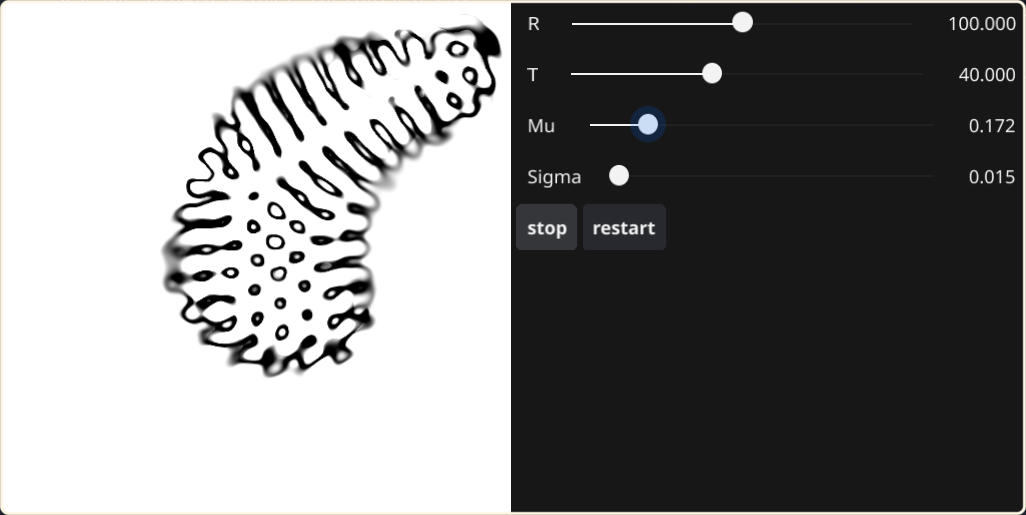
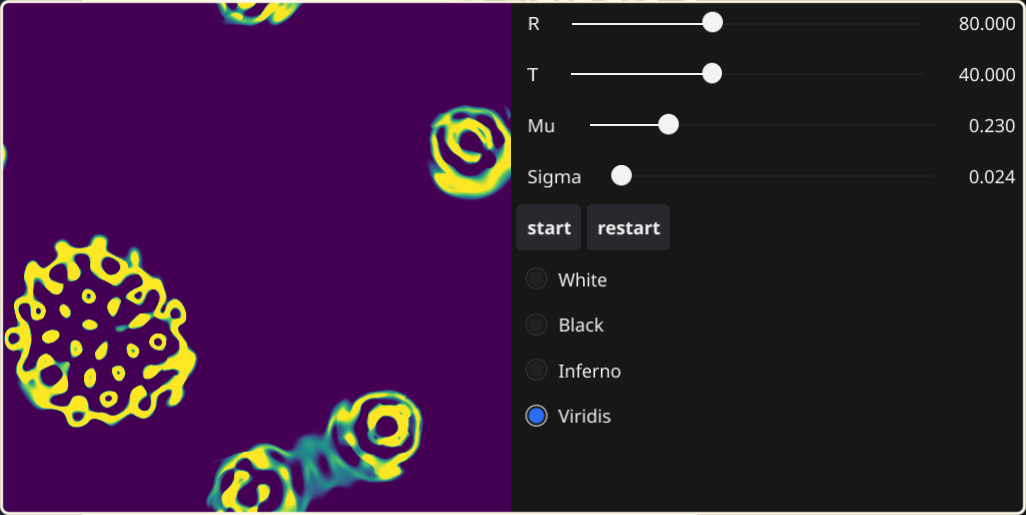
support color change

diff --git a/utils/parameters.go b/utils/parameters.go
@@ -2,10 +2,13 @@ package utils
 
 import (
 	"fmt"
+	"image/color"
+	"math"
 	"strconv"
 	"strings"
 
 	"fyne.io/fyne/v2"
+	"fyne.io/fyne/v2/canvas"
 	"fyne.io/fyne/v2/container"
 	"fyne.io/fyne/v2/data/binding"
 	"fyne.io/fyne/v2/widget"
@@ -105,4 +108,76 @@ func FlagToBeta(s string) []float64 {
 		}
 	}
 	return beta
+}
+
+// colormap choice
+
+type ColormapButton struct {
+	colors  *[][]int
+	Buttons *widget.RadioGroup
+}
+
+type ManageColormapButton interface {
+	initColormaps()
+	GetColor()
+}
+
+func (c *ColormapButton) initColormaps(raster *canvas.Raster) {
+	c.Buttons.OnChanged = func(value string) {
+		switch value {
+		case "White":
+			*c.colors = [][]int{{255, 255, 255}, {0, 0, 0}}
+		case "Black":
+			*c.colors = [][]int{{0, 0, 0}, {255, 255, 255}}
+		case "Inferno":
+			*c.colors = [][]int{
+				{0, 0, 4},
+				{87, 16, 110},
+				{188, 55, 84},
+				{249, 142, 9},
+				{252, 255, 164},
+			}
+		case "Viridis":
+			*c.colors = [][]int{
+				{68, 1, 84},
+				{59, 82, 139},
+				{33, 145, 140},
+				{94, 201, 98},
+				{253, 231, 37},
+			}
+		}
+		raster.Refresh()
+	}
+}
+
+func CreateColormapButton(colors *[][]int, raster *canvas.Raster) ColormapButton {
+	radio := widget.NewRadioGroup([]string{"White", "Black", "Inferno", "Viridis"}, nil)
+	cButton := ColormapButton{
+		colors:  colors,
+		Buttons: radio,
+	}
+	cButton.initColormaps(raster)
+	cButton.Buttons.SetSelected("White")
+	return cButton
+}
+
+func interpolate(x float64, a, b int) uint8 {
+	// gives the value at x between a and b. x between 0 and 1
+	return uint8(float64(a) + float64(b-a)*x)
+}
+
+func (c *ColormapButton) GetColor(v float64) color.Color {
+	// return the color corresponding to v
+	scaledV := v * float64((len(*c.colors) - 1))
+	index1 := int(math.Floor(scaledV))
+	index2 := int(math.Ceil(scaledV))
+	x := scaledV - float64(index1)
+	c1 := (*c.colors)[index1]
+	c2 := (*c.colors)[index2]
+	return color.RGBA{
+		interpolate(x, c1[0], c2[0]),
+		interpolate(x, c1[1], c2[1]),
+		interpolate(x, c1[2], c2[2]),
+		0xff,
+	}
 }

diff --git a/simulation.go b/simulation.go
@@ -26,6 +26,7 @@ press 's' to save image
 press 'c' to close window
 */
 
+// global variables
 const width = 512
 const height = 512
 
@@ -33,6 +34,8 @@ var simulationApp = app.New()
 var kFlag bool
 var running bool = true
 var wg sync.WaitGroup
+var colormap utils.ColormapButton
+var colors [][]int
 
 // define system parameters
 var R utils.Parameter
@@ -55,13 +58,8 @@ func initParameters(R_val, T_val, Mu_val, Sigma_val float64, Beta_val []float64)
 func displayState(i, j, w, h int) color.Color {
 	// update the pixels colors according to the state matrix
 	if i < width && j < height {
-		amount := 1 - setup.A.At(i, j)
-		col := uint8(utils.Clip(amount, 0, 1) * 255)
-		return color.RGBA{
-			col,
-			col,
-			col,
-			0xff}
+		amount := setup.A.At(i, j)
+		return colormap.GetColor(utils.Clip(amount, 0, 1))
 	} else {
 		return color.Black
 	}
@@ -150,6 +148,8 @@ func leniaWindow() fyne.Window {
 	w := initWindow("Lenia State", winWidth, winHeight)
 	// raster is the pixel matrix and its update function
 	raster := canvas.NewRasterWithPixels(displayState)
+	// colormap
+	colormap = utils.CreateColormapButton(&colors, raster)
 	// buttons
 	buttons := container.New(layout.NewHBoxLayout(),
 		StartButton(), RestartButton(raster))
@@ -160,7 +160,8 @@ func leniaWindow() fyne.Window {
 		T.GetSliderBox(0, 100, 1, "T", &setup.Dt),
 		Mu.GetSliderBox(0, 1, 0.001, "Mu", nil),
 		Sigma.GetSliderBox(0, 1, 0.001, "Sigma", nil),
-		buttons)
+		buttons,
+		colormap.Buttons)
 	// 2 columns: lenia state and parameters
 	grid := container.New(layout.NewGridLayout(2), raster, controls)
 	w.SetContent(grid)

diff --git a/README.md b/README.md
@@ -26,11 +26,12 @@ Add `-h` for help, to see how to change the default parameters values:
     set the timeline (default 40)
 ```
 ## Controls
-During the run, the parameters can be tweaked with sliders.  
-Press `c` to close the window, or ctrl+C in terminal.  
-Press`s` to take a screenshot.
+- During the run, the parameters can be tweaked with sliders.  
+- The colormap can be changed as well.  
+- Press `c` to close the window, or ctrl+C in terminal.  
+- Press`s` to take a screenshot.
+- Start/stop and restart buttons allow to manage the simulation.
 
-Start/stop and restart buttons allow to manage the simulation.
 ![](images/parameters.png)
 
 Extra parameters such as window size can be changed in the source code. 
